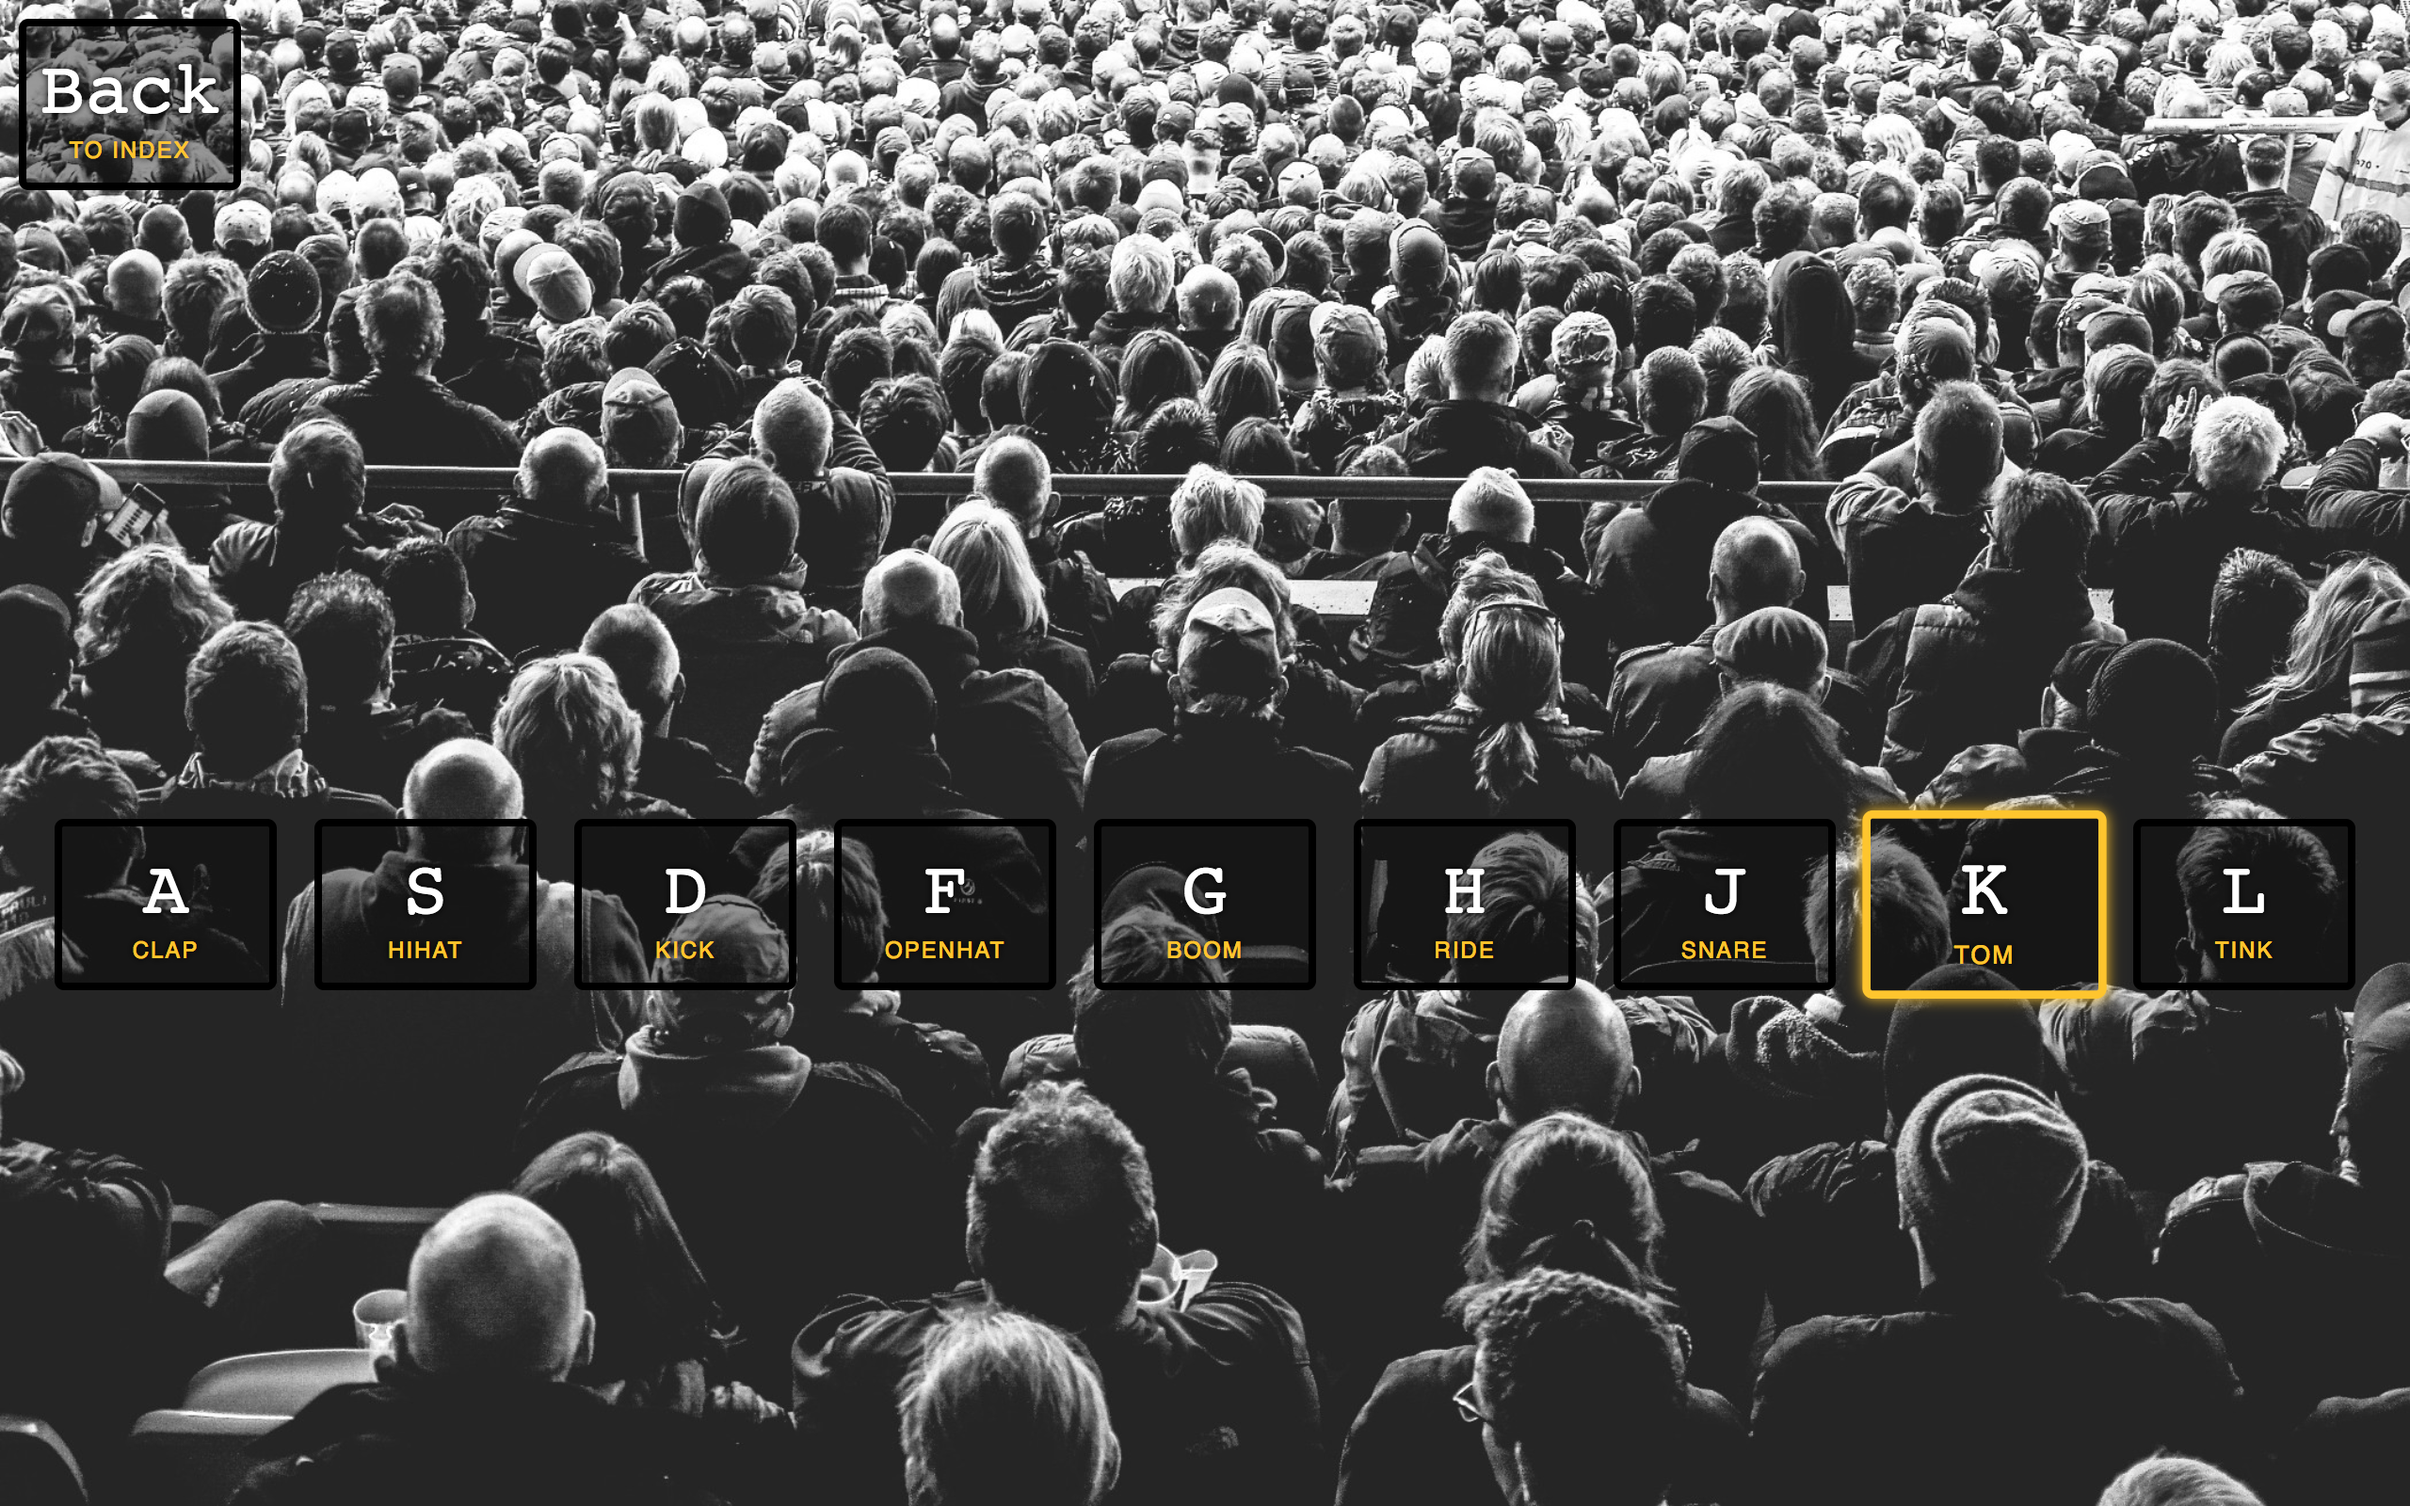
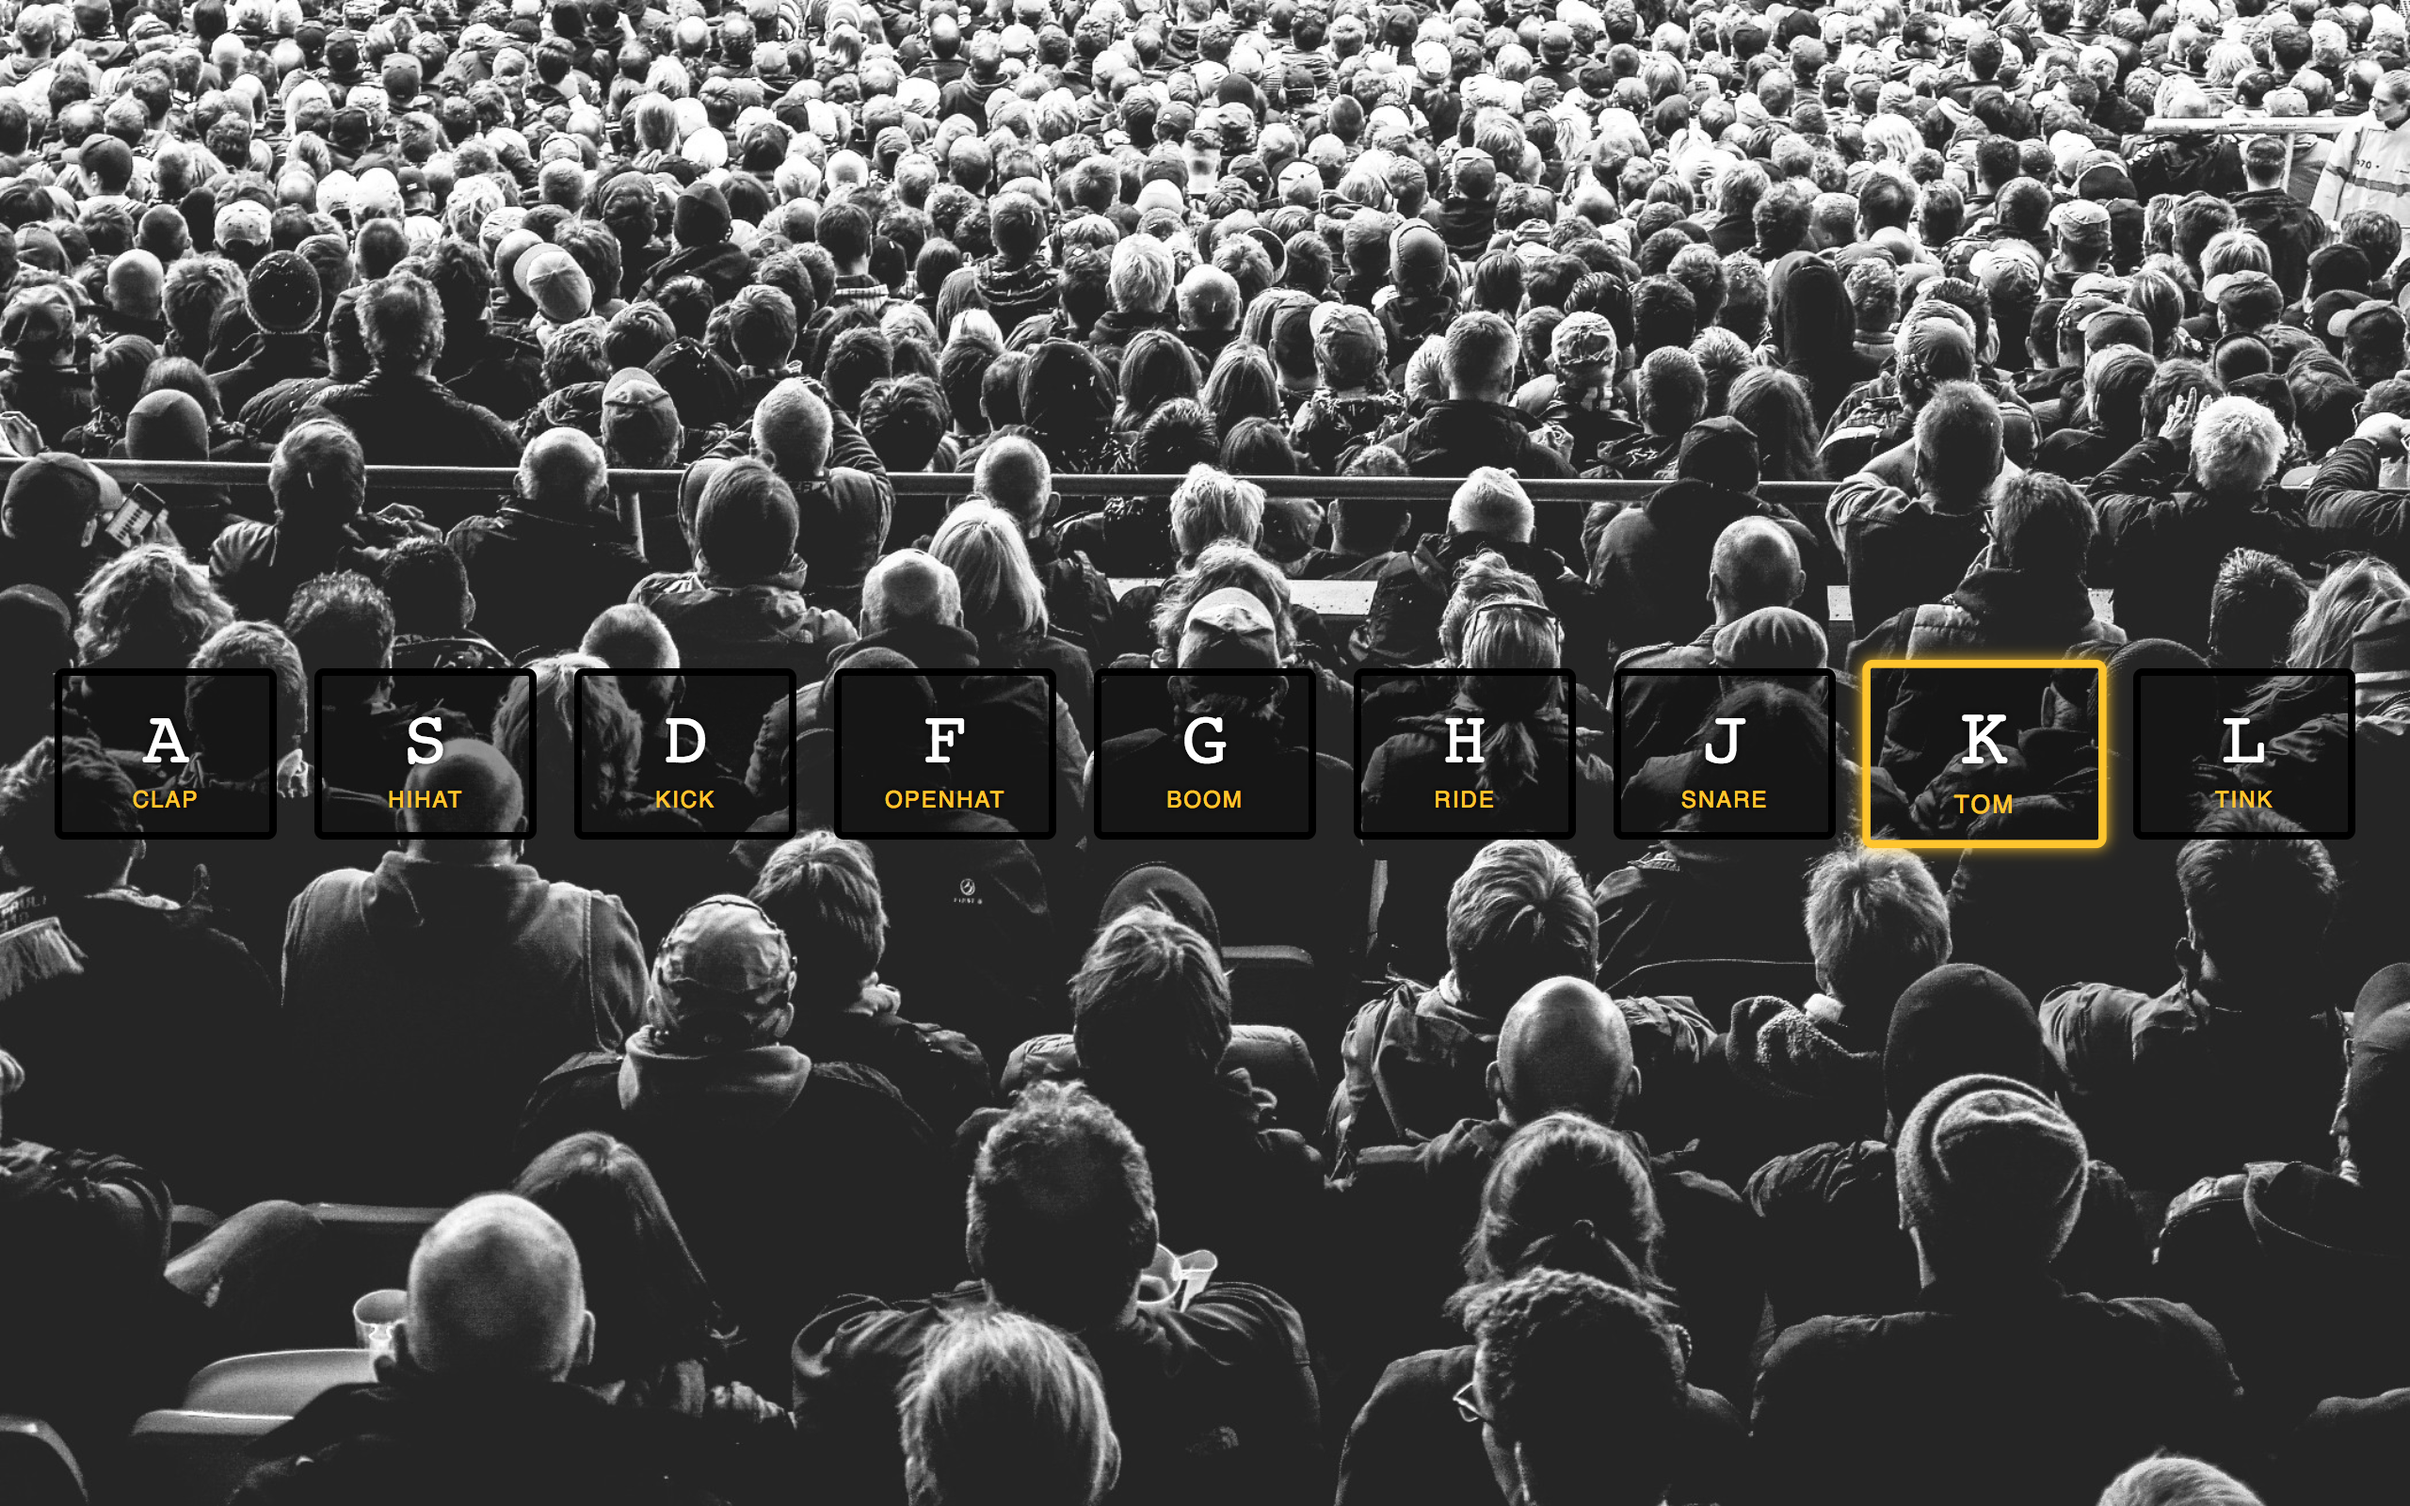
Update styling to main index.html page & remove back button from drum kit page

Changed region(s): [[0.0, 0.4062, 1.0, 0.6875], [0.0, 0.0, 0.125, 0.125]]

diff --git a/index.html b/index.html
@@ -6,12 +6,37 @@
     <link rel="stylesheet" href="index.css">
   </head>
   <body>
-    <div>    
-      <a href="./01%20-%20JavaScript%20Drum%20Kit/">
-        <img class="img" src="./01.png">
-        Day 1 - JavaScript Drum Kit
-      </a>
+    <div class="row">
+      <div class="column index">
+        <h3>Javascript30</h3>
+
+        <div class="card" data-url="./01%20-%20JavaScript%20Drum%20Kit/">    
+            <img class="img" data-url="./01%20-%20JavaScript%20Drum%20Kit/" src="./01.png">
+            <strong>Day 1 - JavaScript Drum Kit</strong><br>
+            Type one of the letters shown to see and hear the animation!
+        </div>
+      </div>
+
+      <div class="column show">
+        <iframe class="preview" src="./01%20-%20JavaScript%20Drum%20Kit/" height="100%" width="100%"></iframe>
+      </div>
     </div>
+
+    <script>
+  
+      function showPreview(e) {
+        const className = e.target.className
+        if (className === "card" || className === "img") {
+          const dataUrl = e.target.dataset.url
+          const preview = document.querySelector("iframe")
+          preview.src = dataUrl
+          preview.focus()
+        }
+      }
+      
+      window.addEventListener('click',  showPreview)
+        
+    </script>
 
   </body>
 </html>

diff --git a/index.css b/index.css
@@ -1,27 +1,63 @@
 body {
     max-width: 100vw;
-    text-align: center;
+    /* text-align: center; */
     font-family: sans-serif;
 }
 
-a {
+/* a {
     text-decoration: none;
-}
-
-a:visited {
     color: black;
+} */
+
+/* a:visited {
+    color: black;
+} */
+
+h3 {
+    text-align: center;
 }
 
-div {
+.column {
+    float: left;
+    padding: 10px;
+    height: 94vh;
+}
+
+.index {
+    width: 20vw;
+    overflow: auto;
+}
+
+.show {
+    width: 75vw;
+}
+  
+.row:after {
+    content: "";
+    display: table;
+    clear: both;
+}
+
+.card {
     max-width: 25vw;
     padding: 1vw;
     margin: 1vw;
     display: inline-block;
     box-shadow: 0 0 0.5vw darkgrey;
     border-radius: 0.25vw;
-    font-size: 2vw;
+    font-size: 1vw;
+}
+
+.card:hover {
+    cursor: pointer;
 }
 
 .img {
     max-width: 100%;
+}
+
+.preview {
+    box-shadow: 0 0 0.5vw darkgrey;
+    border: none;
+    border-radius: 0.25vw;
 }

diff --git a/01 - JavaScript Drum Kit/style.css b/01 - JavaScript Drum Kit/style.css
@@ -10,20 +10,21 @@ body,html {
   font-family: sans-serif;
 }
 
-a {
+/* a {
   text-decoration: none;
-}
+} */
 
-.back {
+/* .back {
   display: flex;
   flex: 1;
   min-height: 20vh;
-}
+} */
 
 .keys {
   display: flex;
   flex: 1;
-  min-height: 80vh;
+  /* min-height: 80vh; */
+  min-height: 100vh;
   align-items: center;
   justify-content: center;
 }

diff --git a/01 - JavaScript Drum Kit/index.html b/01 - JavaScript Drum Kit/index.html
@@ -7,14 +7,14 @@
 </head>
 <body>
 
-  <div class="back">
+  <!-- <div class="back">
     <a href="../">
       <div class="key">
         <kbd>Back</kbd>
         <span class="sound">to index</span>
       </div>
     </a>
-  </div>
+  </div> -->
 
   <div class="keys">
     <div data-key="65" class="key">
